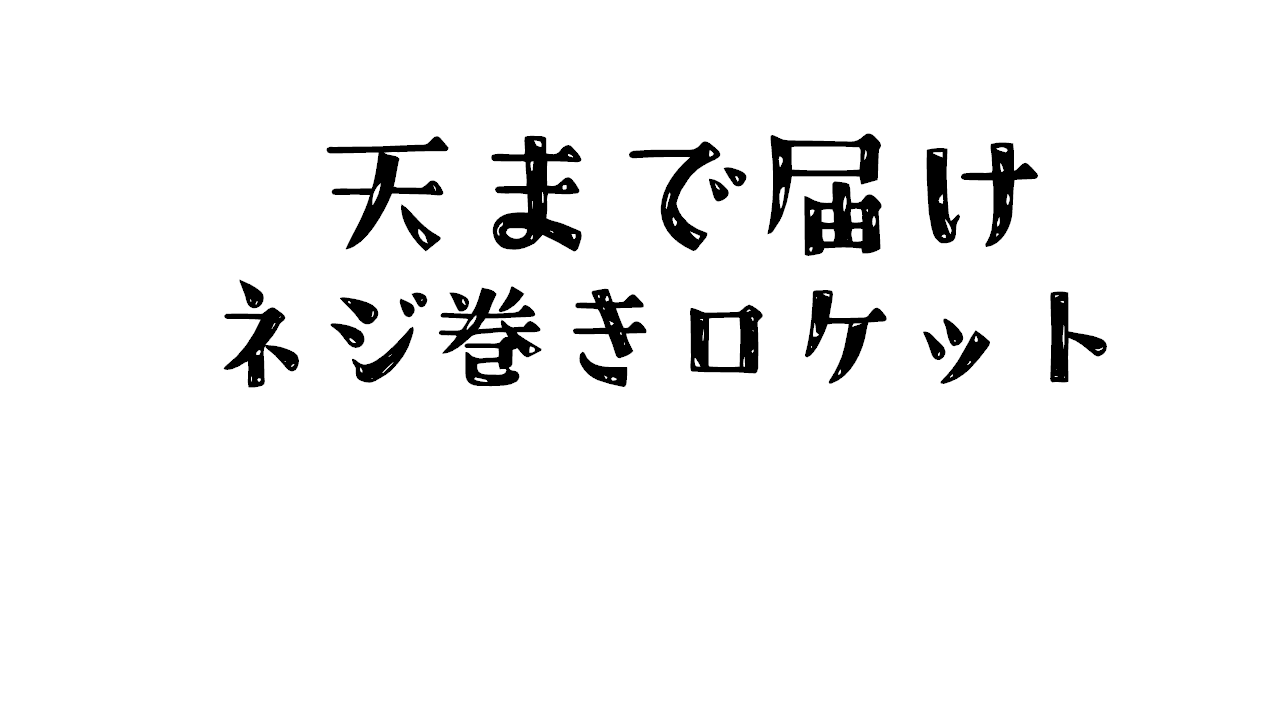
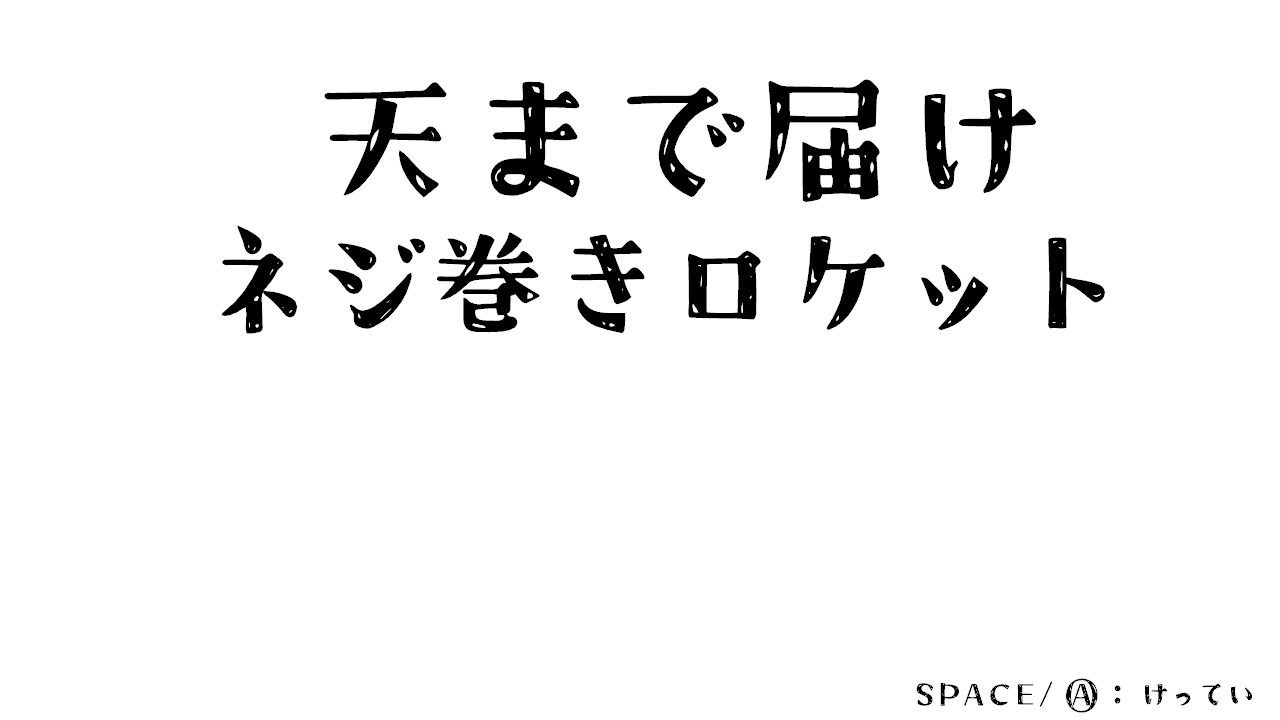
ゲームパッドでのネジ巻き設定

diff --git a/DirectXGame/Scenes/TitleScene.cpp b/DirectXGame/Scenes/TitleScene.cpp
@@ -10,6 +10,8 @@ TitleScene::~TitleScene() {
 	delete screw_;
 	delete skydome_;
 	delete field_;
+	delete setting_;
+	delete ui_;
 
 	delete modelRocket_;
 	delete modelScrew_;
@@ -53,6 +55,12 @@ void TitleScene::Initialize() {
 	field_ = new Field();
 	field_->Initialize(modelField_);
 
+	setting_ = new Setting();
+	setting_->Load();
+	ui_ = new UI();
+	ui_->InitializeTitleUI(setting_);
+
+
 	textureHandleTitle_ = TextureManager::Load("title.png");
 	textureHandleStart_ = TextureManager::Load("commands/startCommand.png");
 	textureHandleRule_ = TextureManager::Load("commands/ruleCommand.png");
@@ -65,11 +73,18 @@ void TitleScene::Initialize() {
 
 void TitleScene::Update() {
 
-	spriteTitle_->SetPosition({0.0f, -50.0f});
+	spriteTitle_->SetPosition({0.0f, 0.0f});
 	spriteCommands_->SetPosition({0.0f, -25.0f});
 
 	Input::GetInstance()->GetJoystickState(0, state);
 	Input::GetInstance()->GetJoystickStatePrevious(0, preState);
+
+	isUpPressed = input->TriggerKey(DIK_UP) || (state.Gamepad.wButtons & XINPUT_GAMEPAD_DPAD_UP) && !(preState.Gamepad.wButtons & XINPUT_GAMEPAD_DPAD_UP);
+	isDownPressed = input->TriggerKey(DIK_DOWN) || (state.Gamepad.wButtons & XINPUT_GAMEPAD_DPAD_DOWN) && !(preState.Gamepad.wButtons & XINPUT_GAMEPAD_DPAD_DOWN);
+	isRightPressed = input->TriggerKey(DIK_RIGHT) || (state.Gamepad.wButtons & XINPUT_GAMEPAD_DPAD_RIGHT) && !(preState.Gamepad.wButtons & XINPUT_GAMEPAD_DPAD_RIGHT);
+	isLeftPressed = input->TriggerKey(DIK_LEFT) || (state.Gamepad.wButtons & XINPUT_GAMEPAD_DPAD_LEFT) && !(preState.Gamepad.wButtons & XINPUT_GAMEPAD_DPAD_LEFT);
+	isSpacePressed = input->TriggerKey(DIK_SPACE);
+	isAButtonPressed = (state.Gamepad.wButtons & XINPUT_GAMEPAD_A) && !(preState.Gamepad.wButtons & XINPUT_GAMEPAD_A);
 
 	SelectCommand();
 
@@ -83,16 +98,18 @@ void TitleScene::Update() {
 		}
 	}
 
+	SetGamePadConfig();
+
 	skydome_->Update();
-
 	field_->Update();
-
 	screw_->UpdateOnlyModel();
 	rocket_->UpdateOnlyModel();
 
 	CameraMove();
 
 	camera_.UpdateMatrix();
+
+	DebugText::GetInstance()->ConsolePrintf("IsSettingChoice : %d\nIsOpenSetting : %d\n", isSettingChoice_,isOpenSetting_);
 }
 
 void TitleScene::Draw() {
@@ -142,6 +159,10 @@ void TitleScene::Draw() {
 		spriteCommands_->Draw();
 	}
 
+	if (isOpenSetting_) {
+		ui_->DrawGamePadConfig();
+	}
+
 	// 前景スプライト描画後処理
 	Sprite::PostDraw();
 }
@@ -170,49 +191,75 @@ void TitleScene::CameraMove() {
 }
 
 void TitleScene::SelectCommand() { 
-	bool isUpPressed = input->TriggerKey(DIK_UP) || (state.Gamepad.wButtons & XINPUT_GAMEPAD_DPAD_UP) && !(preState.Gamepad.wButtons & XINPUT_GAMEPAD_DPAD_UP); 
-	bool isDownPressed = input->TriggerKey(DIK_DOWN) || (state.Gamepad.wButtons & XINPUT_GAMEPAD_DPAD_DOWN) && !(preState.Gamepad.wButtons & XINPUT_GAMEPAD_DPAD_DOWN);
-	bool isRightPressed = input->TriggerKey(DIK_RIGHT) || (state.Gamepad.wButtons & XINPUT_GAMEPAD_DPAD_RIGHT) && !(preState.Gamepad.wButtons & XINPUT_GAMEPAD_DPAD_RIGHT);
-	bool isLeftPressed = input->TriggerKey(DIK_LEFT) || (state.Gamepad.wButtons & XINPUT_GAMEPAD_DPAD_LEFT) && !(preState.Gamepad.wButtons & XINPUT_GAMEPAD_DPAD_LEFT);
-	bool isSpacePressed = input->TriggerKey(DIK_SPACE);
-	bool isAButtonPressed = (state.Gamepad.wButtons & XINPUT_GAMEPAD_A) && !(preState.Gamepad.wButtons & XINPUT_GAMEPAD_A);
 
-	if (isUpPressed) {
-		commandNum_--;
-		if (commandNum_ < 1) {
-			commandNum_ = 3;
-		}
-	} else if (isDownPressed) {
-		commandNum_++;
-		if (commandNum_ > 3) {
-			commandNum_ = 1;
-		}
+	if (!isMove_ && !isOpenRule_ && !isOpenSetting_) {
+    	if (isUpPressed) {
+    		commandNum_--;
+    		if (commandNum_ < 1) {
+    			commandNum_ = 3;
+    		}
+    	} else if (isDownPressed) {
+    		commandNum_++;
+    		if (commandNum_ > 3) {
+    			commandNum_ = 1;
+    		}
+    	}
+
+    	if (isRightPressed || isLeftPressed) {
+    		if (!isSettingChoice_) {
+    			isSettingChoice_ = true;
+    		} else {
+    			isSettingChoice_ = false;
+    			commandNum_ = 1;
+    		}
+    	}
+
+    	if (isSpacePressed || isAButtonPressed) {
+    		if (!isSettingChoice_) {
+    			switch (commandNum_) {
+    			case 1: // Start
+    				isMove_ = true;
+    				break;
+    			case 2: // Rule
+    				isOpenRule_ = true;
+    				break;
+    			case 3: // Exit
+    				isExit_ = true;
+    				break;
+    			}
+    		} else {
+    			isOpenSetting_ = true;
+				justOpenedSetting_ = true;
+    		}
+    	}
 	}
+}
 
-	if (isRightPressed || isLeftPressed) {
-		if (!isSettingChoice_) {
-			isSettingChoice_ = true;
-		} else {
-			isSettingChoice_ = false;
-			commandNum_ = 1;
-		}
-	}
+void TitleScene::SetGamePadConfig() {
+	bool isChanged = false;
+	if (isOpenSetting_) {
+        ui_->UpdateGamePadConfig();
 
-	if (isSpacePressed || isAButtonPressed) {
-		if (!isSettingChoice_) {
-			switch (commandNum_) {
-			case 1: // Start
-				isMove_ = true;
-				break;
-			case 2: // Rule
-				isOpenRule_ = true;
-				break;
-			case 3: // Exit
-				isExit_ = true;
-				break;
+    	if (isLeftPressed || isRightPressed) {
+    		if (setting_->screwInputType_ == "AButton") {
+    			setting_->screwInputType_ = "Stick";
+    		} else if (setting_->screwInputType_ == "Stick") {
+    			setting_->screwInputType_ = "AButton";
+    		}
+    		isChanged = true;
+    	}
+
+    	// 変更があった時だけ保存
+    	if (isChanged) {
+        	setting_->Save();
+    	}
+ 
+        if (!justOpenedSetting_) {
+			if (isSpacePressed || isAButtonPressed) {
+				isOpenSetting_ = false;
 			}
 		} else {
-			isOpenSetting_ = true;
+			justOpenedSetting_ = false; // 1フレーム経過したら解除
 		}
 	}
 }

diff --git a/DirectXGame/UI.cpp b/DirectXGame/UI.cpp
@@ -3,6 +3,7 @@
 #include <algorithm>
 #include "Timer.h"
 #include "Objects/Rocket.h"
+#include "Setting.h"
 
 using namespace KamataEngine;
 
@@ -11,11 +12,14 @@ UI::~UI() {
 	delete tenDigitSprite_;
 	delete oneDigitSprite_;
 	delete meterSprite_;
+	delete counterSprite_;
+	delete gamePadConfigSprite_;
 }
 
-void UI::Initialize(Timer* timer, Rocket* rocket) { 
+void UI::InitializeGameUI(Timer* timer, Rocket* rocket) { 
 	timer_ = timer;
 	rocket_ = rocket;
+
 
 	//------------------------カウンター-------------------------------
 	// 数字テクスチャの読み込み
@@ -115,5 +119,28 @@ void UI::DrawCounter() {
     	counterSprite_->SetColor({1.0f, 1.0f, 1.0f, counterSpriteAlpha_});
         counterSprite_->Draw();
 	}
+}
 
+void UI::UpdateGamePadConfig() {
+	gamePadConfigSprite_->SetPosition({250.0f, 150.0f});
+	if (setting_->screwInputType_ == "AButton") {
+		gamePadConfigSprite_->SetTextureHandle(padConfigAButtonTexture);
+	} else if (setting_->screwInputType_ == "Stick") {
+		gamePadConfigSprite_->SetTextureHandle(padConfigStickTexture);
+	}
+}
+
+void UI::DrawGamePadConfig() { 
+	gamePadConfigSprite_->Draw(); 
+}
+
+void UI::InitializeTitleUI(Setting* setting) { 
+	setting_ = setting; 
+
+	//----------------------ゲームパッド設定表示-------------------------
+	padConfigAButtonTexture = TextureManager::Load("padConfigAButton.png");
+	padConfigStickTexture = TextureManager::Load("padConfigStick.png");
+
+	gamePadConfigSprite_ = Sprite::Create(padConfigAButtonTexture, {50.0f, 50.0f});
+	//-------------------------------------------------------------------
 }

diff --git a/DirectXGame/UI.h b/DirectXGame/UI.h
@@ -4,12 +4,15 @@
 
 class Timer;
 class Rocket;
+class Setting;
 class UI {
 public:
 
 	~UI();
 
-	void Initialize(Timer* timer, Rocket* rocket);
+	void InitializeGameUI(Timer* timer, Rocket* rocket);
+
+	void InitializeTitleUI(Setting* setting);
 
 	void Update();
 
@@ -23,10 +26,15 @@ public:
 
 	void DrawCounter();
 
+	void UpdateGamePadConfig();
+
+	void DrawGamePadConfig();
+
 private:
 	WorldTransformEx worldTransform_;
 	Timer* timer_ = nullptr;
 	Rocket* rocket_ = nullptr;
+	Setting* setting_ = nullptr;
 
 	int score_ = 0;
 
@@ -34,13 +42,14 @@ private:
 	KamataEngine::Sprite* tenDigitSprite_ = nullptr;
 	KamataEngine::Sprite* hundredDigitSprite_ = nullptr;
 	KamataEngine::Sprite* meterSprite_ = nullptr;
+	KamataEngine::Sprite* counterSprite_ = nullptr;
+	KamataEngine::Sprite* gamePadConfigSprite_ = nullptr;
 
 	uint32_t recordTextures[10];
 	uint32_t meterTexture = 0;
-
-	KamataEngine::Sprite* counterSprite_ = nullptr;
-
 	uint32_t counterTextures[11];
+	uint32_t padConfigAButtonTexture = 0;
+	uint32_t padConfigStickTexture = 0;
 
     // スプライトの透明度(初期値: 不透明)
 	float scoreSpriteAlpha_ = 0.0f; 

diff --git a/DirectXGame/Scenes/TitleScene.h b/DirectXGame/Scenes/TitleScene.h
@@ -4,6 +4,8 @@
 #include "../Objects/Screw.h"
 #include "../Objects/Skydome.h"
 #include "../Objects/Field.h"
+#include "../Setting.h"
+#include "../UI.h"
 
 class TitleScene {
 
@@ -21,6 +23,8 @@ public:
 	void CameraMove();
 
 	void SelectCommand();
+
+	void SetGamePadConfig();
 
 	bool IsOpenRule() const { return isOpenRule_; }
 
@@ -60,6 +64,10 @@ private:
 	Skydome* skydome_ = nullptr;
 
 	Field* field_ = nullptr;
+
+	Setting* setting_ = nullptr;
+
+	UI* ui_ = nullptr;
 	
 	bool isSettingChoice_ = false;
 	bool isMove_ = false;
@@ -67,10 +75,17 @@ private:
 	bool isExit_ = false;
 	bool isOpenSetting_ = false;
 	bool isFinished_ = false;
+	bool justOpenedSetting_ = false;
+
+	bool isUpPressed;
+	bool isDownPressed;
+	bool isRightPressed;
+	bool isLeftPressed;
+	bool isSpacePressed;
+	bool isAButtonPressed;
 
 	float spriteAlpha_ = 1.0f; // スプライトの透明度(初期値: 不透明)
 	float fadeSpeed_ = 0.02f;  // フェードアウト速度
 
 	int commandNum_ = 1;
-
 };

diff --git a/DirectXGame/Setting.cpp b/DirectXGame/Setting.cpp
@@ -1,5 +1,6 @@
 #include "Setting.h"
 #include <fstream>
+#include <iostream>
 
 void Setting::Save() {
 	nlohmann::json j;
@@ -7,10 +8,14 @@ void Setting::Save() {
 	j["ScrewInputType"] = screwInputType_;
 
 	std::ofstream ofs(filePath_);
-	if (!ofs.is_open()) {
+	if (ofs.is_open()) { // 開けたら書き込む
 		ofs << j.dump(4);
+	} else {
+		// 開けなかった場合のエラーログ
+		std::cerr << "Failed to open setting file for saving: " << filePath_ << std::endl;
 	}
 }
+
 
 void Setting::Load() {
 	std::ifstream ifs(filePath_);

diff --git a/DirectXGame/Scenes/GameScene.cpp b/DirectXGame/Scenes/GameScene.cpp
@@ -58,7 +58,7 @@ void GameScene::Initialize() {
 	field_->Initialize(modelField_);
 	// UIの初期化・生成
 	ui_ = new UI();
-	ui_->Initialize(timer_, rocket_);
+	ui_->InitializeGameUI(timer_, rocket_);
 	// カメラコントローラの初期化・生成
 	cameraController_ = new CameraController(); 
 	cameraController_->Initialize();            

diff --git a/DirectXGame/Setting.h b/DirectXGame/Setting.h
@@ -7,6 +7,8 @@ public:
 	// 保存する内容
 	float bestRecord_ = 0.0f;
 	std::string screwInputType_ = "AButton";
+public:
+
 
 	// コンストラクタでロード
 	Setting(const std::string& filePath = "Resources/Config.json") 
